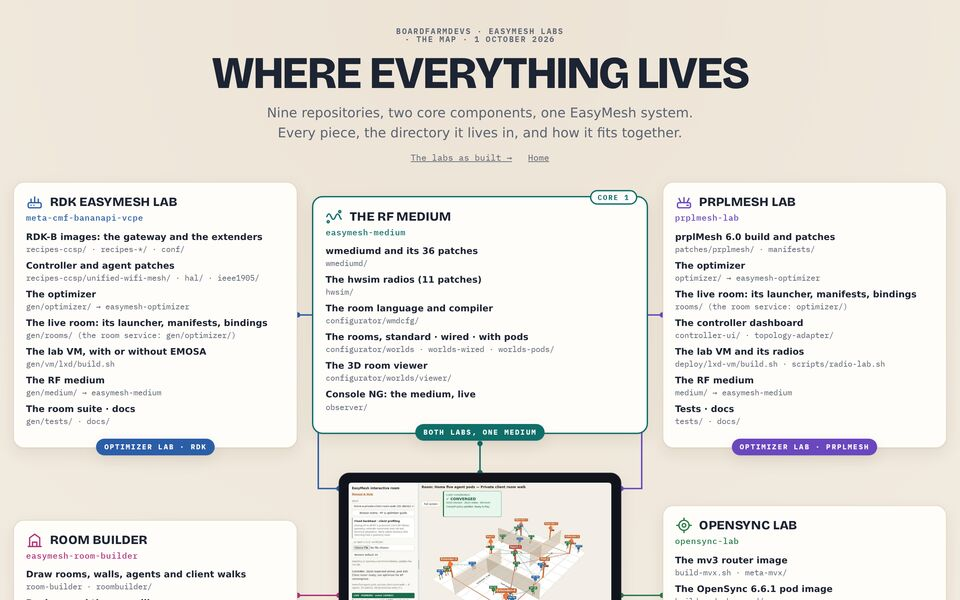
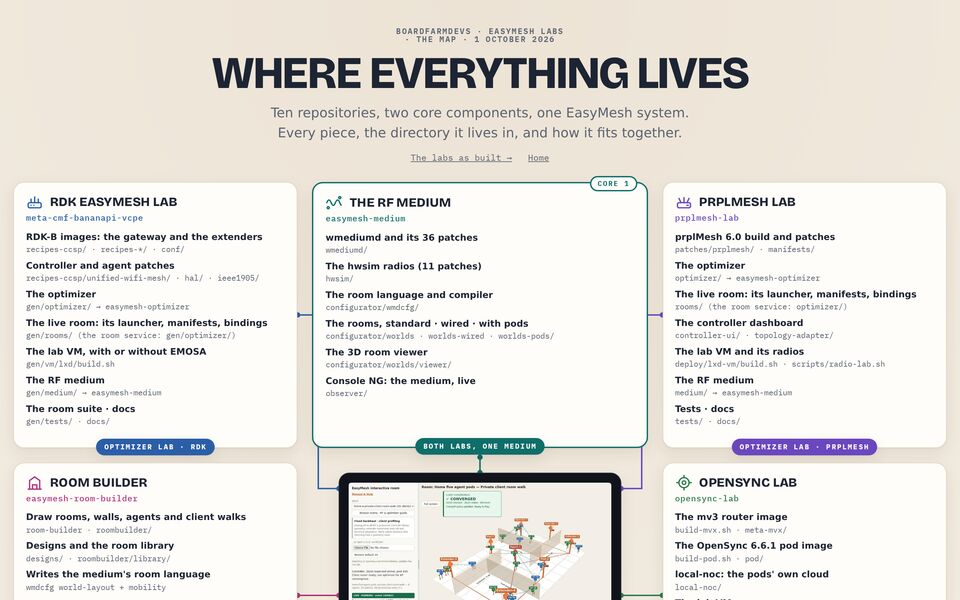
Map poster: ten repositories, the resources among them
easymesh-resources (the MV3 EasyMesh footprint and the production plan) joins the map as
a card beside the optimizer in the row below the ring, with no connector line; the
poster says ten repositories. The README's components and the site's repository table
list it too. The poster previews and the lab cards are rendered again.

diff --git a/site/posters/posters.css b/site/posters/posters.css
@@ -5,7 +5,7 @@
   --ground: #f4eee4; --ground-2: #ece3d5; --ink: #1d2433; --muted: #5d6474; --card: #fffdf9;
   --line: #e2d8c8; --shadow: 0 1px 2px rgba(60, 40, 10, .06), 0 8px 24px rgba(60, 40, 10, .08);
   --medium: #0f6e6a; --emosa: #b4540b; --rdk: #2b5ea8; --prpl: #6a47bf; --osl: #2b7a4b;
-  --phys: #c03c34; --builder: #b0327d; --umbrella: #3c4658; --optimizer: #4650b4;
+  --phys: #c03c34; --builder: #b0327d; --umbrella: #3c4658; --optimizer: #4650b4; --resources: #7a6524;
   --display: "Bricolage Grotesque", "Avenir Next", system-ui, sans-serif;
   --body: system-ui, -apple-system, "Segoe UI", Roboto, sans-serif;
   --mono: "IBM Plex Mono", ui-monospace, "SFMono-Regular", Menlo, monospace;
@@ -16,7 +16,7 @@
     --ground: #15130f; --ground-2: #1e1b16; --ink: #ede7dc; --muted: #a9a293; --card: #211e18;
     --line: #3a342a; --shadow: 0 1px 2px rgba(0, 0, 0, .4), 0 8px 24px rgba(0, 0, 0, .35);
     --medium: #4fbfb6; --emosa: #f0a35e; --rdk: #7fa7e8; --prpl: #ad93f0; --osl: #6fcb93;
-    --phys: #ef8a81; --builder: #ea86c3; --umbrella: #a9b3c6; --optimizer: #9ba3f3;
+    --phys: #ef8a81; --builder: #ea86c3; --umbrella: #a9b3c6; --optimizer: #9ba3f3; --resources: #dcc27a;
     color-scheme: dark;
   }
 }
@@ -24,7 +24,7 @@
   --ground: #15130f; --ground-2: #1e1b16; --ink: #ede7dc; --muted: #a9a293; --card: #211e18;
   --line: #3a342a; --shadow: 0 1px 2px rgba(0, 0, 0, .4), 0 8px 24px rgba(0, 0, 0, .35);
   --medium: #4fbfb6; --emosa: #f0a35e; --rdk: #7fa7e8; --prpl: #ad93f0; --osl: #6fcb93;
-  --phys: #ef8a81; --builder: #ea86c3; --umbrella: #a9b3c6; --optimizer: #9ba3f3;
+  --phys: #ef8a81; --builder: #ea86c3; --umbrella: #a9b3c6; --optimizer: #9ba3f3; --resources: #dcc27a;
   color-scheme: dark;
 }
 
@@ -56,10 +56,10 @@ a { color: inherit; }
   .board { grid-template-columns: 1fr 1.18fr 1fr; grid-template-areas: "a b c" "d x e" "f g h"; align-items: center; }
   .a { grid-area: a; } .b { grid-area: b; } .c { grid-area: c; } .d { grid-area: d; }
   .x { grid-area: x; } .e { grid-area: e; } .f { grid-area: f; } .g { grid-area: g; } .h { grid-area: h; }
-  /* a fourth row, the full width, for a card without a connector line */
-  .board.fourth { grid-template-areas: "a b c" "d x e" "f g h" "i i i"; }
-  .i { grid-area: i; }
-  .card.wide .rows { grid-template-columns: repeat(3, minmax(0, 1fr)); column-gap: 26px; }
+  /* a fourth row for the cards without a connector line: a wide one and a narrow one */
+  .board.fourth { grid-template-areas: "a b c" "d x e" "f g h" "i i j"; align-items: stretch; }
+  .i { grid-area: i; } .j { grid-area: j; }
+  .card.wide .rows { grid-template-columns: repeat(2, minmax(0, 1fr)); column-gap: 26px; }
 }
 .wires { position: absolute; inset: 0; width: 100%; height: 100%; pointer-events: none; overflow: visible; }
 .wires path { fill: none; stroke-width: 2.2; stroke-linecap: round; }
@@ -150,6 +150,7 @@ td code { font: 11.5px/1.4 var(--mono); color: var(--muted); }
 .medium { --c: var(--medium); } .emosa { --c: var(--emosa); } .rdk { --c: var(--rdk); }
 .prpl { --c: var(--prpl); } .osl { --c: var(--osl); } .phys { --c: var(--phys); }
 .builder { --c: var(--builder); } .umbrella { --c: var(--umbrella); } .optimizer { --c: var(--optimizer); }
+.resources { --c: var(--resources); }
 
 /* the labs poster */
 .hosts { display: grid; gap: 16px; grid-template-columns: repeat(auto-fit, minmax(min(100%, 280px), 1fr)); margin-bottom: 34px; }

diff --git a/site/posters/map.html b/site/posters/map.html
@@ -7,7 +7,7 @@
 <link rel="icon" href="../favicon.ico" sizes="48x48">
 <link rel="icon" href="../favicon.svg" type="image/svg+xml">
 <link rel="apple-touch-icon" href="../apple-touch-icon.png">
-<meta name="description" content="Where every component of the EasyMesh labs lives: nine repositories, two core components, and the directory each piece is in.">
+<meta name="description" content="Where every component of the EasyMesh labs lives: ten repositories, two core components, and the directory each piece is in.">
 <link rel="preconnect" href="https://fonts.googleapis.com">
 <link rel="stylesheet" href="https://fonts.googleapis.com/css2?family=Bricolage+Grotesque:opsz,wght@12..96,600;12..96,800&family=IBM+Plex+Mono:wght@400;500;600;700&display=swap">
 <link rel="stylesheet" href="posters.css">
@@ -17,7 +17,7 @@
   <header class="masthead">
     <p class="eyebrow">boardfarmdevs · EasyMesh labs · the map · 1 October 2026</p>
     <h1>Where everything lives</h1>
-    <p>Nine repositories, two core components, one EasyMesh system. Every piece, the directory it
+    <p>Ten repositories, two core components, one EasyMesh system. Every piece, the directory it
     lives in, and how it fits together.</p>
     <nav><a href="labs.html">The labs as built →</a> <a href="../index.html">Home</a></nav>
   </header>
@@ -154,6 +154,16 @@
         <li><b>Scenarios, the experiment matrix, manuals</b><code>scenarios/ · configs/ · docs/</code></li>
       </ul>
       <span class="pill">Both labs, one optimizer</span>
+    </article>
+
+    <article class="card resources below j">
+      <h2><svg viewBox="0 0 24 24" fill="none" stroke="currentColor" stroke-width="1.8" stroke-linecap="round"><path d="M4 5a2 2 0 0 1 2-2h12v16H6a2 2 0 0 0-2 2z"/><path d="M4 21V5M8 7h6M8 11h6"/></svg>Resources</h2>
+      <p class="repo"><a href="https://vcpe.dev/easymesh-resources/">easymesh-resources</a></p>
+      <ul class="rows">
+        <li><b>The MV3 EasyMesh footprint: a memory model and its measurements</b><code>memory-model/</code></li>
+        <li><b>The MV3 production plan: activities, parties, reviews, timeline</b><code>project-model/</code></li>
+      </ul>
+      <span class="pill">Shared material</span>
     </article>
   </section>
 

diff --git a/site/index.html b/site/index.html
@@ -212,6 +212,7 @@ cd ~/git/easymesh-labs
         <tr><td><a href="https://github.com/boardfarmdevs/opensync-lab">opensync-lab</a></td><td>the OpenSync router and pods</td><td><a href="https://vcpe.dev/opensync-lab/">OpenSync</a></td></tr>
         <tr><td><a href="https://github.com/boardfarmdevs/easymesh-lab">easymesh-lab</a></td><td>the physical protocol lab</td><td><a href="https://vcpe.dev/easymesh-lab/">Protocol lab</a></td></tr>
         <tr><td><a href="https://github.com/boardfarmdevs/easymesh-room-builder">easymesh-room-builder</a></td><td>the room designer</td><td><a href="https://vcpe.dev/easymesh-room-builder/">open it</a></td></tr>
+        <tr><td><a href="https://github.com/boardfarmdevs/easymesh-resources">easymesh-resources</a></td><td>shared material: the MV3 EasyMesh footprint and production plan</td><td><a href="https://vcpe.dev/easymesh-resources/">Resources</a></td></tr>
         <tr><td><a href="https://github.com/boardfarmdevs/easymesh-labs">easymesh-labs</a></td><td>this umbrella: the workspace, the manifest and the plan</td><td>this site</td></tr>
       </tbody>
     </table></div>

diff --git a/site/posters/posters.js b/site/posters/posters.js
@@ -1,5 +1,5 @@
 // Connector lines from each card of a poster board to its central device, in the card's
-// colour (not from a full-width card below the ring). Drawn only in the wide three-column layout; redrawn on resize.
+// colour (not from the cards of the row below the ring: .wide and .below). Drawn only in the wide three-column layout; redrawn on resize.
 (function () {
   const NS = 'http://www.w3.org/2000/svg';
   function draw(board) {
@@ -16,7 +16,7 @@
     const b = board.getBoundingClientRect();
     const d = device.getBoundingClientRect();
     const D = { l: d.left - b.left, r: d.right - b.left, t: d.top - b.top, bot: d.bottom - b.top };
-    for (const card of board.querySelectorAll(':scope > .card:not(.wide)')) {
+    for (const card of board.querySelectorAll(':scope > .card:not(.wide):not(.below)')) {
       const c = card.getBoundingClientRect();
       const C = { l: c.left - b.left, r: c.right - b.left, t: c.top - b.top, bot: c.bottom - b.top };
       const cx = (C.l + C.r) / 2, cy = (C.t + C.bot) / 2;

diff --git a/README.md b/README.md
@@ -37,6 +37,7 @@ bar, the Pages workflow, the documentation check).
 | [opensync-lab](https://vcpe.dev/opensync-lab/) | lab | a representative OpenSync router and the OpenSync pod image; EMOSA's reference lab |
 | [easymesh-lab](https://vcpe.dev/easymesh-lab/) | learning | the protocol on certified hardware: a from-scratch controller and a teaching panel |
 | [easymesh-room-builder](https://vcpe.dev/easymesh-room-builder/) | tool | design the labs' rooms in the browser, compiled to the medium's world plans |
+| [easymesh-resources](https://vcpe.dev/easymesh-resources/) | shared | shared material: the MV3 EasyMesh footprint and the production plan |
 
 In this repository: `site/` (the landing page and the posters), `manifest.json`, `sync`
 and `pin`, `docs/`, and `pages/` with `.github/workflows/pages.yml` (shared by every
